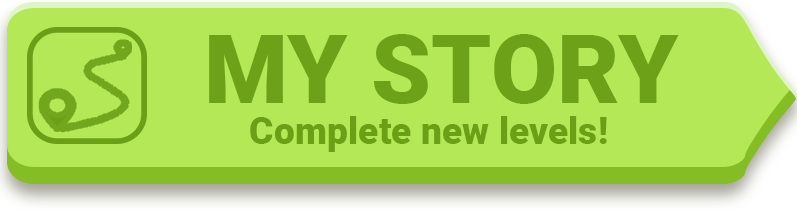
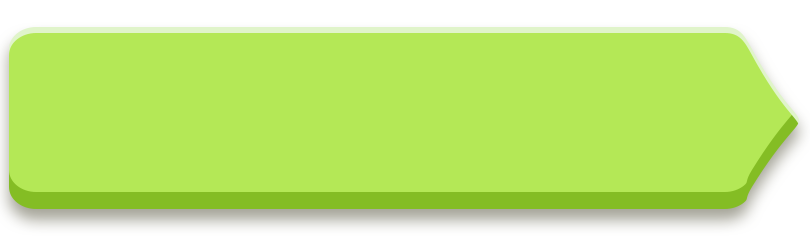
Fix nav buttons layouts

diff --git a/lib/Screens/LobbyScreen/LobbyNavigationButton.dart b/lib/Screens/LobbyScreen/LobbyNavigationButton.dart
@@ -1,23 +1,43 @@
 import 'package:flutter/cupertino.dart';
+import 'package:flutter/material.dart';
 import 'package:flutter/services.dart';
+
+import '../../TabletDetector.dart';
+import '../../main.dart';
 
 class LobbyNavigationButton extends StatefulWidget {
 
-  final String imageFileName;
   final Function onTap;
+  final String title1;
+  final String title2;
+  final Color fontColor;
+  final String buttonIcon;
+  final String buttonBg;
 
-  const LobbyNavigationButton({ Key? key, required this.imageFileName, required this.onTap }) : super(key: key);
+  const LobbyNavigationButton({
+    Key? key,
+    required this.onTap,
+    required this.title1,
+    required this.title2,
+    required this.fontColor,
+    required this.buttonIcon,
+    required this.buttonBg,
+  }) : super(key: key);
 
   @override
   State<LobbyNavigationButton> createState() => _LobbyNavigationButtonState();
 }
-//'assets/images/lobby/lobby-navigation-goto-mystory.png'
+
 class _LobbyNavigationButtonState extends State<LobbyNavigationButton> {
 
   bool _isPressed = false;
 
   @override
   Widget build(BuildContext context) {
+
+    var fontSizeTop = !TabletDetector.isTablet() ? 35 : 55;
+    var fontSizeBottom = !TabletDetector.isTablet() ? 14 : 20;
+
     return GestureDetector(
       onTapDown: (e) {
         HapticFeedback.vibrate();
@@ -30,7 +50,48 @@ class _LobbyNavigationButtonState extends State<LobbyNavigationButton> {
       child: RotationTransition(
           alignment: Alignment.center,
           turns: _isPressed ? new AlwaysStoppedAnimation(4 / 360) : new AlwaysStoppedAnimation(0),
-          child: Image.asset(widget.imageFileName)
+          child: IntrinsicHeight(
+            child: Stack(
+              children: [
+                Image.asset(widget.buttonBg),
+                Center(
+                  child: Row(
+                    mainAxisAlignment: MainAxisAlignment.start,
+                    children: [
+                      SizedBox(
+                        height: !TabletDetector.isTablet() ? 50 : 80,
+                        child: Image.asset(widget.buttonIcon)
+                      ),
+                      IntrinsicHeight(
+                        child: Column(
+                          crossAxisAlignment: CrossAxisAlignment.start,
+                          children: [
+                            Text(
+                              widget.title1,
+                              style: TextStyle(
+                                color: widget.fontColor,
+                                fontSize: fontSizeTop*1,
+                                height: 1,
+                                fontFamily: 'Roboto',
+                              ),
+                            ),
+                            Text(
+                              widget.title2,
+                              style: TextStyle(
+                                color: widget.fontColor,
+                                fontSize: fontSizeBottom*1,
+                                fontFamily: 'Roboto',
+                              ),
+                            ),
+                          ],
+                        ),
+                      ),
+                    ],
+                  ),
+                )
+              ]
+            ),
+          )
       ),
     );
   }

diff --git a/lib/TabletDetector.dart b/lib/TabletDetector.dart
@@ -1,0 +1,73 @@
+import 'package:flutter/widgets.dart';
+import 'dart:math';
+
+class TabletDetector {
+
+  // iPhone 6S
+  // |_ [portrait]
+  //    |_ size: 375.0x667.0, pixelRatio: 2.0, pixels: 750.0x1334.0
+  //       |_ diagonal: 765.1888655750291
+  // |_ [horizontal]
+  //    |_ size: 667.0x375.0, pixelRatio: 2.0, pixels: 1334.0x750.0
+  //       |_ diagonal: 765.1888655750291
+
+  // iPhone X
+  // |_ [portrait]
+  //    |_ size: 375.0x812.0, pixelRatio: 3.0, pixels: 1125.0x2436.0
+  //       |_ diagonal: 894.4098613052072
+  // |_ [horizontal]
+  //    |_ size: 812.0x375.0, pixelRatio: 3.0, pixels: 2436.0x1125.0
+  //       |_ diagonal: 894.4098613052072
+
+  // iPhone XS Max
+  // |_ [portrait]
+  //    |_ size: 414.0x896.0, pixelRatio: 3.0, pixels: 1242.0x2688.0
+  //       |_ diagonal: 987.0217829409845
+  // |_ [horizontal]
+  //    |_ size: 896.0x414.0, pixelRatio: 3.0, pixels: 2688.0x1242.0
+  //       |_ diagonal: 987.0217829409845
+
+  // iPad Pro (9.7-inch)
+  // |_ [portrait]
+  //    |_ size: 768.0x1024.0, pixelRatio: 2.0, pixels: 1536.0x2048.0
+  //       |_ diagonal: 1280.0
+  // |_ [horizontal]
+  //    |_ size: 1024.0x768.0, pixelRatio: 2.0, pixels: 2048.0x1536.0
+  //       |_ diagonal: 1280.0
+
+  // iPad Pro (10.5-inch)
+  // |_ [portrait]
+  //    |_ size: 834.0x1112.0, pixelRatio: 2.0, pixels: 1668.0x2224.0
+  //       |_ diagonal: 1390.0
+  // |_ [horizontal]
+  //    |_ size: 1112.0x834.0, pixelRatio: 2.0, pixels: 2224.0x1668.0
+  //       |_ diagonal: 1390.0
+
+  // iPad Pro (12.9-inch)
+  // |_ [portrait]
+  //    |_ size: 1024.0x1366.0, pixelRatio: 2.0, pixels: 2048.0x2732.0
+  //       |_ diagonal: 1707.2000468603555
+  // |_ [horizontal]
+  //    |_ size: 1366.0x1024.0, pixelRatio: 2.0, pixels: 2732.0x2048.0
+  //       |_ diagonal: 1707.2000468603555
+
+  static bool isTablet() {
+    var size = MediaQueryData.fromWindow(WidgetsBinding.instance!.window).size;
+    var diagonal = sqrt(
+        (size.width * size.width) +
+            (size.height * size.height)
+    );
+
+    /*
+    print(
+      'size: ${size.width}x${size.height}\n'
+      'pixelRatio: ${query.devicePixelRatio}\n'
+      'pixels: ${size.width * query.devicePixelRatio}x${size.height * query.devicePixelRatio}\n'
+      'diagonal: $diagonal'
+    );
+    */
+
+    var isTablet = diagonal > 1100.0;
+    return isTablet;
+  }
+}

diff --git a/lib/Screens/LobbyScreen/LobbyNavigation.dart b/lib/Screens/LobbyScreen/LobbyNavigation.dart
@@ -16,7 +16,7 @@ import 'LobbyNavigationButton.dart';
 
 class LobbyNavigation extends StatelessWidget{
 
-  LobbyNavigation();
+  LobbyNavigation()
 
   @override
   Widget build(BuildContext context){
@@ -33,11 +33,20 @@ class LobbyNavigation extends StatelessWidget{
                     children: [
                       LobbyNavigationButton(
                         onTap: () => _navigateToStoryGame(context),
-                        imageFileName: 'assets/images/lobby/lobby-navigation-goto-mystory.png',
+                        title1: "MY STORY",
+                        title2: "LEVEL 3 - Welcome party",
+                        fontColor: Color.fromRGBO(107, 160, 22, 1),
+                        buttonIcon: 'assets/images/lobby/story-btn-icon.png',
+                        buttonBg: 'assets/images/lobby/lobby-navigation-goto-mystory.png',
                       ),
+
                       LobbyNavigationButton(
                         onTap: () => _navigateToChallengeGame(context),
-                        imageFileName: 'assets/images/lobby/lobby-navigation-goto-timechalenge.png',
+                        title1: "CHALLENGE",
+                        title2: "Try to do your best in time!",
+                        fontColor: Color.fromRGBO(209, 129, 30, 1),
+                        buttonIcon: 'assets/images/lobby/time-challenge-btn-icon.png',
+                        buttonBg: 'assets/images/lobby/lobby-navigation-goto-timechalenge.png',
                       )
                     ],
                   ),

diff --git a/lib/main.dart b/lib/main.dart
@@ -15,6 +15,10 @@ import 'package:sizer/sizer.dart';
 
 final GlobalKey<NavigatorState> navigatorKey = new GlobalKey<NavigatorState>();
 
+// Determine if we should use mobile layout or not, 600 here is
+// a common breakpoint for a typical 7-inch tablet.
+bool isTablet = MediaQueryData.fromWindow(WidgetsBinding.instance.window).size.shortestSide < 550;
+
 void main() async {
 
   configureDependencies();
